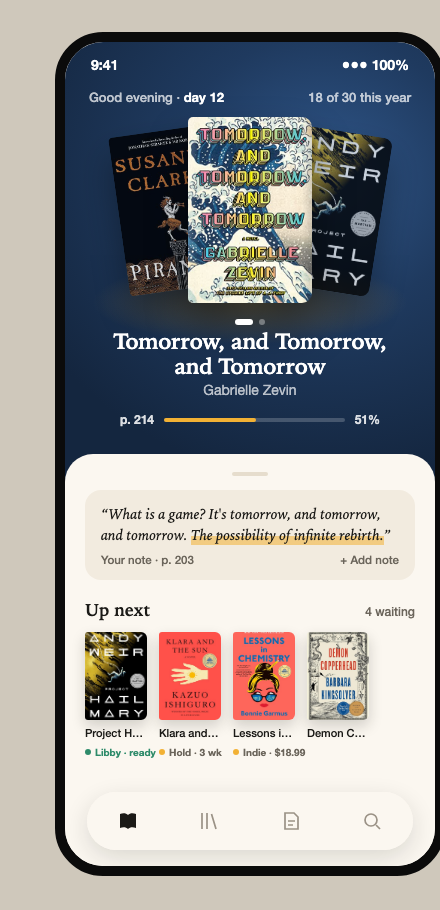
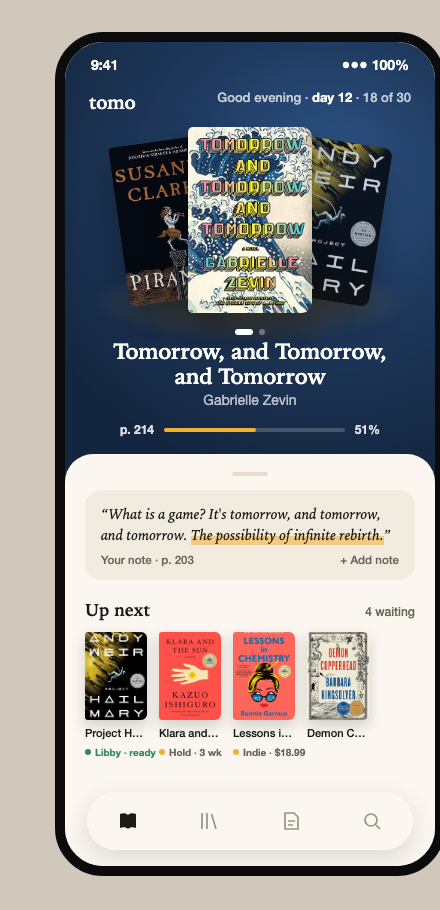
Try Tomo and Dogear as app names in the mockups
Dogear on the warmer directions (1, 3, 5) with a folded-corner mark;
Tomo on the calmer ones (2, 4, 6). Screenshots refreshed.

Changed region(s): [[0.2068, 0.0923, 0.9455, 0.4923], [0.2659, 0.4615, 0.3545, 0.4923]]

diff --git a/.codeyam/design/project_mockups/01-n15-mockup.html b/.codeyam/design/project_mockups/01-n15-mockup.html
@@ -1,6 +1,6 @@
 <!doctype html>
 <html lang="en"><head><meta charset="utf-8"><meta name="viewport" content="width=device-width,initial-scale=1">
-<title>Folio · Margin direction</title>
+<title>Dogear · Margin direction</title>
 <style>
 :root{--canvas:#f2f2f2;--ink:#000;--mist:#e5e5e5;--haze:#cfabef;--indigo:#698fff;--solar:#fcf572;
 --display:'Playfair Display',Georgia,'Times New Roman',serif;--serif:'Lora',Georgia,serif;--sans:'Inter',system-ui,-apple-system,sans-serif;--mono:'JetBrains Mono',ui-monospace,Menlo,monospace}
@@ -10,7 +10,7 @@ body{background:#d9d9d6;font-family:var(--sans);color:var(--ink);display:flex;ju
 .screen{height:100%;overflow:hidden;padding:0 20px}
 .status{display:flex;justify-content:space-between;font:600 14px var(--sans);padding:14px 8px 10px}
 .bar{display:flex;justify-content:space-between;align-items:baseline;border-bottom:1px solid var(--ink);padding:6px 0 10px}
-.word{font:italic 600 24px var(--display)}
+.word{font:italic 600 24px var(--display);display:flex;align-items:center;gap:8px}
 .meta{font:500 10px var(--mono);letter-spacing:.06em;text-transform:uppercase;color:#444}
 h1{font:400 40px/1.02 var(--display);letter-spacing:-.01em;margin:20px 0 4px}
 h1 em{font-style:italic}
@@ -53,7 +53,7 @@ h1 .dot{display:inline-block;width:14px;height:14px;background:var(--solar);bord
 </style></head><body>
 <div class="phone"><div class="screen">
   <div class="status"><span>9:41</span><span>●●● 100%</span></div>
-  <div class="bar"><span class="word">Folio</span><span class="meta">Day 12 · 18 / 30 in 2026</span></div>
+  <div class="bar"><span class="word"><svg width="18" height="22" viewBox="0 0 18 22"><path d="M1 1h10l6 6v14H1z" fill="none" stroke="#000" stroke-width="1.5"/><path d="M11 1v6h6z" fill="#fcf572" stroke="#000" stroke-width="1.5" stroke-linejoin="round"/></svg>Dogear</span><span class="meta">Day 12 · 18 / 30 in 2026</span></div>
 
   <h1><span class="dot"></span>Now <em>reading</em></h1>
   <p class="sub">Two books open. 202 pages to the end of both.</p>

diff --git a/.codeyam/design/project_mockups/02-minimalistic-mockup.html b/.codeyam/design/project_mockups/02-minimalistic-mockup.html
@@ -1,6 +1,6 @@
 <!doctype html>
 <html lang="en"><head><meta charset="utf-8"><meta name="viewport" content="width=device-width,initial-scale=1">
-<title>Folio · Logbook direction</title>
+<title>Tomo · Logbook direction</title>
 <style>
 :root{--bg:#FAFAF7;--bg-elev:#F2F1EC;--bg-sunk:#EEEDE7;--ink:#0A0A09;--muted:#6E6E6A;--faint:#A8A8A2;--line:#E5E4DE;--line-strong:#C8C7C0;--accent:#C44536;--accent-soft:#F5E2DD;--go:#4A6B3A;--wait:#8B6914;
 --sans:'Inter',-apple-system,system-ui,sans-serif;--mono:'JetBrains Mono',ui-monospace,'SF Mono',Menlo,monospace}
@@ -53,7 +53,7 @@ body{background:#e4e3dd;font-family:var(--sans);color:var(--ink);display:flex;ju
 </style></head><body>
 <div class="phone"><div class="screen">
 <div class="status"><span>9:41</span><span>▮▮▮ 100%</span></div>
-<div class="top"><h1>Folio</h1><span class="search">⌘ search 142 books</span></div>
+<div class="top"><h1>tomo<span style="color:var(--accent)">.</span></h1><span class="search">⌘ search 142 books</span></div>
 
 <div class="stats">
   <div><span class="lbl">Streak</span><b>12 <span>days</span></b><div class="spark"><i style="height:6px"></i><i style="height:10px"></i><i style="height:4px"></i><i class="on" style="height:12px"></i><i class="on" style="height:9px"></i><i class="on" style="height:14px"></i><i class="on" style="height:11px"></i></div></div>

diff --git a/.codeyam/design/project_mockups/04-space-odyssey-mockup.html b/.codeyam/design/project_mockups/04-space-odyssey-mockup.html
@@ -1,6 +1,6 @@
 <!doctype html>
 <html lang="en"><head><meta charset="utf-8"><meta name="viewport" content="width=device-width,initial-scale=1">
-<title>Folio · Night Reading direction</title>
+<title>Tomo · Night Reading direction</title>
 <style>
 :root{--orange:#ff5a1f;--orange-soft:#ff8a5a;--magenta:#c72f8f;--purple:#5a2890;--purple-deep:#2a1450;--bg:#07060a;--panel:#11101a;--cream:#f4ecdf;--ink:#f5f0e6;--dim:#b9b0a4;--mute:#6e6878;--green:#4ade80;
 --display:'Bricolage Grotesque','Avenir Next',-apple-system,system-ui,sans-serif;--mono:'JetBrains Mono',ui-monospace,Menlo,monospace}
@@ -48,7 +48,7 @@ h1{font-weight:600;font-size:30px;line-height:1.05;letter-spacing:-.035em;text-a
 </style></head><body>
 <div class="phone"><div class="screen">
 <div class="status"><span>21:14</span><span>●●● 82%</span></div>
-<div class="top"><span class="brand"><i></i>Folio</span><span class="pillo">12 nights in a row</span></div>
+<div class="top"><span class="brand"><i></i>tomo</span><span class="pillo">12 nights in a row</span></div>
 
 <div class="stage">
   <svg class="ring" viewBox="0 0 300 300"><circle cx="150" cy="150" r="140" fill="none" stroke="rgba(245,240,230,.08)" stroke-width="4"/>

diff --git a/.codeyam/design/project_mockups/03-gummy-mockup.html b/.codeyam/design/project_mockups/03-gummy-mockup.html
@@ -1,6 +1,6 @@
 <!doctype html>
 <html lang="en"><head><meta charset="utf-8"><meta name="viewport" content="width=device-width,initial-scale=1">
-<title>Folio · Penny Press direction</title>
+<title>Dogear · Penny Press direction</title>
 <style>
 :root{--ink:#000;--linen:#fff;--gray:#f4f4f0;--graphite:#242423;--ash:#d1d5dc;--pink:#ff90e8;--sun:#ffc900;--lime:#f1f333;--orange:#fc6c34;--sky:#88d4ff;
 --sans:'Inter',-apple-system,Arial,sans-serif}
@@ -49,7 +49,7 @@ h2 span{background:var(--pink);padding:0 4px}
 </style></head><body>
 <div class="phone"><div class="screen">
 <div class="status"><span>9:41</span><span>●●● 100%</span></div>
-<div class="hd"><span class="logo"><span class="coin">F</span>Folio</span><span class="streak">🔥 12-day streak</span></div>
+<div class="hd"><span class="logo"><span class="coin"><svg width="14" height="16" viewBox="0 0 14 16"><path d="M1 1h8l4 4v10H1z" fill="#fff" stroke="#000" stroke-width="1.5"/><path d="M9 1v4h4z" fill="#ff90e8" stroke="#000" stroke-width="1.5" stroke-linejoin="round"/></svg></span>Dogear</span><span class="streak">🔥 12-day streak</span></div>
 
 <h2>You're <span>halfway</span> through Zevin.</h2>
 <div class="hero">

diff --git a/.codeyam/design/project_mockups/05-neo-brutalist-mockup.html b/.codeyam/design/project_mockups/05-neo-brutalist-mockup.html
@@ -1,6 +1,6 @@
 <!doctype html>
 <html lang="en"><head><meta charset="utf-8"><meta name="viewport" content="width=device-width,initial-scale=1">
-<title>Folio · Bookshelf direction</title>
+<title>Dogear · Bookshelf direction</title>
 <style>
 :root{--base:#f5f0e8;--surface:#fff;--muted:#ede8de;--inverse:#0d0d0d;--t1:#0d0d0d;--t2:#666;--border:#0d0d0d;--light:#e5ddd0;
 --pink:#ff90e8;--pink-l:#ffe4f8;--teal:#14b8a6;--teal-l:#ccfbf1;--yellow:#facc15;--orange:#fb923c;
@@ -55,6 +55,7 @@ h1{font-size:44px;font-weight:800;letter-spacing:-.045em;line-height:.92;margin:
 </style></head><body>
 <div class="phone"><div class="screen">
 <div class="status"><span>9:41</span><span>▮▮▮ 100%</span></div>
+<div style="display:flex;align-items:center;gap:7px;margin-top:6px;font-weight:800;font-size:15px;letter-spacing:-.02em"><svg width="16" height="19" viewBox="0 0 16 19"><path d="M1.5 1.5h8l5 5v11h-13z" fill="#fff" stroke="#0d0d0d" stroke-width="2"/><path d="M9.5 1.5v5h5z" fill="#ff90e8" stroke="#0d0d0d" stroke-width="2" stroke-linejoin="round"/></svg>DOGEAR</div>
 <h1>The shelf.</h1>
 <p class="sub">18 read · 2 open · 4 waiting · 12-day streak</p>
 

diff --git a/.codeyam/design/project_mockups/06-offcatalog-mockup.html b/.codeyam/design/project_mockups/06-offcatalog-mockup.html
@@ -1,6 +1,6 @@
 <!doctype html>
 <html lang="en"><head><meta charset="utf-8"><meta name="viewport" content="width=device-width,initial-scale=1">
-<title>Folio · Cover Light direction</title>
+<title>Tomo · Cover Light direction</title>
 <style>
 :root{--tint:#1f3a5f;--tint-2:#14263f;--amber:#f2b134;--paper:#fbf7f0;--paper-2:#f2ebdf;--ink:#1b1a17;--ink-2:#6b655b;--line:#e6ddcd;--libby:#2e8b6a;
 --serif:ui-serif,'New York','Iowan Old Style',Georgia,serif;--sans:-apple-system,'SF Pro Text','Helvetica Neue',system-ui,sans-serif}
@@ -57,7 +57,7 @@ body{background:#cfc8bb;font-family:var(--sans);color:var(--ink);display:flex;ju
 <div class="phone">
   <div class="wash"></div>
   <div class="status"><span>9:41</span><span>●●● 100%</span></div>
-  <div class="greet"><span>Good evening · <b>day 12</b></span><span>18 of 30 this year</span></div>
+  <div class="greet"><span style="font:600 19px var(--serif);color:#fff;letter-spacing:-.01em">tomo</span><span>Good evening · <b>day 12</b> · 18 of 30</span></div>
   <div class="deck">
     <div class="card back2 cv-hailmary"></div>
     <div class="card back1 cv-piranesi"></div>
